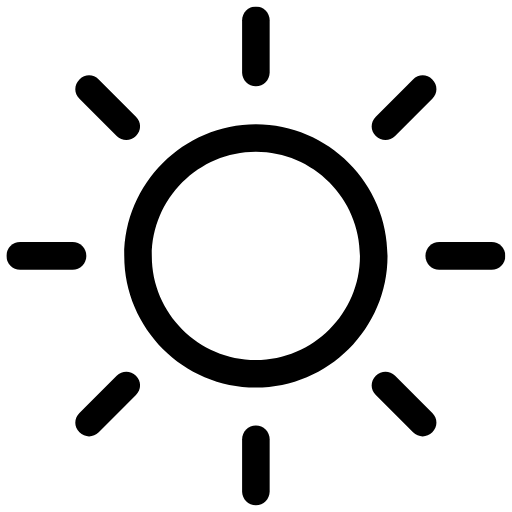
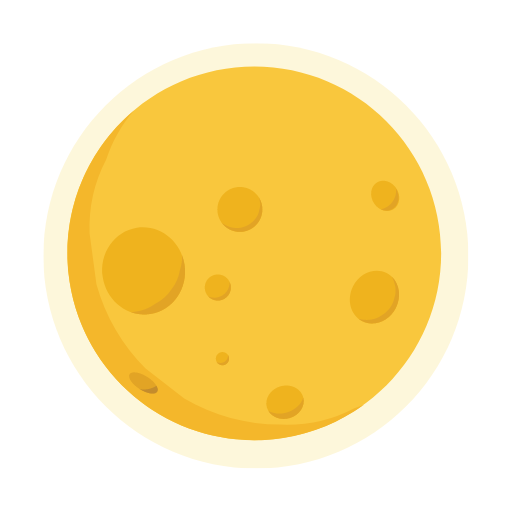
Update Theme

diff --git a/assets/css/Main/style.css b/assets/css/Main/style.css
@@ -21,9 +21,6 @@
   font-family: 'Nos';
   src: url(../../fonts/NOS.otf);
 }
-html{
-  height: 1000vh;
-}
 
 :root{
     /* Fontes */
@@ -155,10 +152,15 @@ body {
 header .nav .trilho{
   display: flex;
   align-items: center;
+  justify-content: center;
   width: 100px;
   height: 36px;
-  background-color: var(--cinza-claro);
-  box-shadow: 0 0 1px rgba(36, 36, 36, 0.377);
+  background-image: url(../../img/sky.png);
+  
+  background-size: cover;
+  background-repeat: no-repeat;
+  background-position: center;
+  box-shadow: inset 0 2px 3px 0.1px rgba(0, 0, 0, 0.385), 0 0 80px rgba(255, 255, 255, 0.159);
   transition: .5s;
   cursor: pointer;
   border-radius: 70px;
@@ -174,25 +176,29 @@ header .nav .trilho .dark-mode{
   transform: scale(.9);
   align-items: center;
   justify-content: center;
-  background-color: white;
-  border: 1px solid var(--cinza-medio);
   position: absolute;
   left: 0;
   transition: .5s;
+  box-shadow: 0 0 0 7px rgba(255, 255, 255, 0.253),0 0 0 14px rgba(255, 255, 255, 0.16),0 0 0 21px rgba(255, 255, 255, 0.084);
 }
 header .nav .dark-mode img{
-  width: 20px;
-  height: 20px;
+  width: 40px;
+  height: 40px;
+  
 }
 header .nav .dark-mode img.night{
   display:none;
 }
 header .nav .trilho.dark{
-  background-color: var(--cinza-escuro); 
+  background-image: url(../../img/space3.png);
+  background-color: var(--space);
   
 }
 header .nav .trilho.dark .dark-mode{
+  background-color: transparent;
+  border: none;
   left: 63px; transition: .5s;
+  box-shadow: none ;
 }
 header .nav .trilho.dark .dark-mode img.night{
   display: block;
@@ -201,7 +207,26 @@ header .nav .trilho.dark .dark-mode img.light{
   display: none;
 }
 body.dark{
-  background-color: var(--prussian_blue);
+  background-color: var(--space);
+}
+body.dark .nav{
+  background-color: var(--space); 
+}
+body.dark .nav-list li a{
+  color: white;
+}
+body.dark h1{
+  color: white;
+}
+body.dark .hamburger{
+  border-color: white;
+}
+body.dark .hamburger::after, body.dark
+.hamburger::before{
+  background-color: white;
+}
+body.dark .nav-list{
+  background-color: var(--space);
 }
 
 /* ============================ FIM HEADER ============================= */
@@ -515,7 +540,6 @@ section.parallax-inovacao{
   background-position: center;
   background-repeat: no-repeat;
   background-size: cover;
-  margin-top: 30vh;
 }
 section.parallax-inovacao .texto-parallax{
   display: flex;

diff --git a/index.html b/index.html
@@ -47,9 +47,10 @@
                 <div class="trilho"  id="trilho">
                     <div class="dark-mode">
                         <img src="assets/img/light.png" alt="" class="light">
-                        <img src="assets/img/night.png" alt="" class="night">
+                        <img src="assets/img/Icon night.png" alt="" class="night">
                     </div>
                 </div>
+                
             </ul>
             
         </nav>
